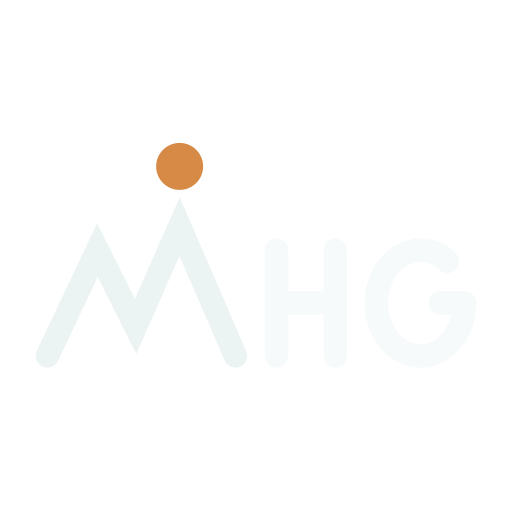
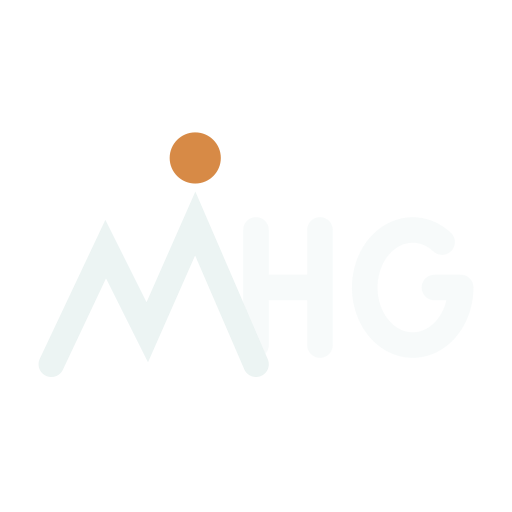
Lift the acronym letters and tuck the H behind the mountain
Written in Water: the H and G now stand 6 units off the ground rather
than on the mountain's baseline, and the H's foot sits just behind the
mountain's right slope. The letters are drawn first so the mountain stands
in front of them; with the letters translucent, the overlap reads as depth.
The mark narrows from 174 to 160 units.

Changed region(s): [[0.2812, 0.25, 0.4375, 0.375]]

diff --git a/src/brand/marks.ts b/src/brand/marks.ts
@@ -135,28 +135,29 @@ export const MARKS: Record<LogoVariant, MarkDefinition> = {
     label: 'Written in Water — H and G beside the mountain',
     description:
       'Summit M with the H and G standing alongside it on the shoreline, spelling the acronym.',
-    note: 'The acronym mark. The letters share the mountain’s stroke and sit level with its lower peak, drawn at 40% so they keep the translucent, written-on-water quality of the original. The G is an oval rather than a circle so it matches the H’s width as one typeface would, and the pair sits close in against the mountain. Below 48 px it tiers down to Summit M alone.',
-    width: 174,
+    note: 'The acronym mark. The letters share the mountain’s stroke, drawn at 40% so they keep the translucent, written-on-water quality of the original. The G is an oval rather than a circle so it matches the H’s width as one typeface would. The pair is lifted 6 units off the ground and the H’s foot tucks behind the mountain’s right slope — the letters are drawn first so the mountain stands in front. Below 48 px it tiers down to Summit M alone.',
+    width: 160,
     elements: [
+      {
+        kind: 'path',
+        d: 'M 80 76 L 80 40 M 80 58 L 100 58 M 100 40 L 100 76',
+        role: 'form',
+        strokeWidth: 8,
+        linecap: 'round',
+        linejoin: 'round',
+        opacity: 0.4,
+      },
+      {
+        kind: 'path',
+        d: 'M 138.2 43.8 A 15 18 0 1 0 144 58 L 135.8 58',
+        role: 'form',
+        strokeWidth: 8,
+        linecap: 'round',
+        linejoin: 'round',
+        opacity: 0.4,
+      },
+      // The mountain draws last so its right slope stands in front of the H.
       ...SUMMIT_ELEMENTS,
-      {
-        kind: 'path',
-        d: 'M 94 82 L 94 46 M 94 64 L 114 64 M 114 46 L 114 82',
-        role: 'form',
-        strokeWidth: 8,
-        linecap: 'round',
-        linejoin: 'round',
-        opacity: 0.4,
-      },
-      {
-        kind: 'path',
-        d: 'M 152.2 49.8 A 15 18 0 1 0 158 64 L 149.8 64',
-        role: 'form',
-        strokeWidth: 8,
-        linecap: 'round',
-        linejoin: 'round',
-        opacity: 0.4,
-      },
     ],
     compact: SUMMIT_ELEMENTS,
   },
